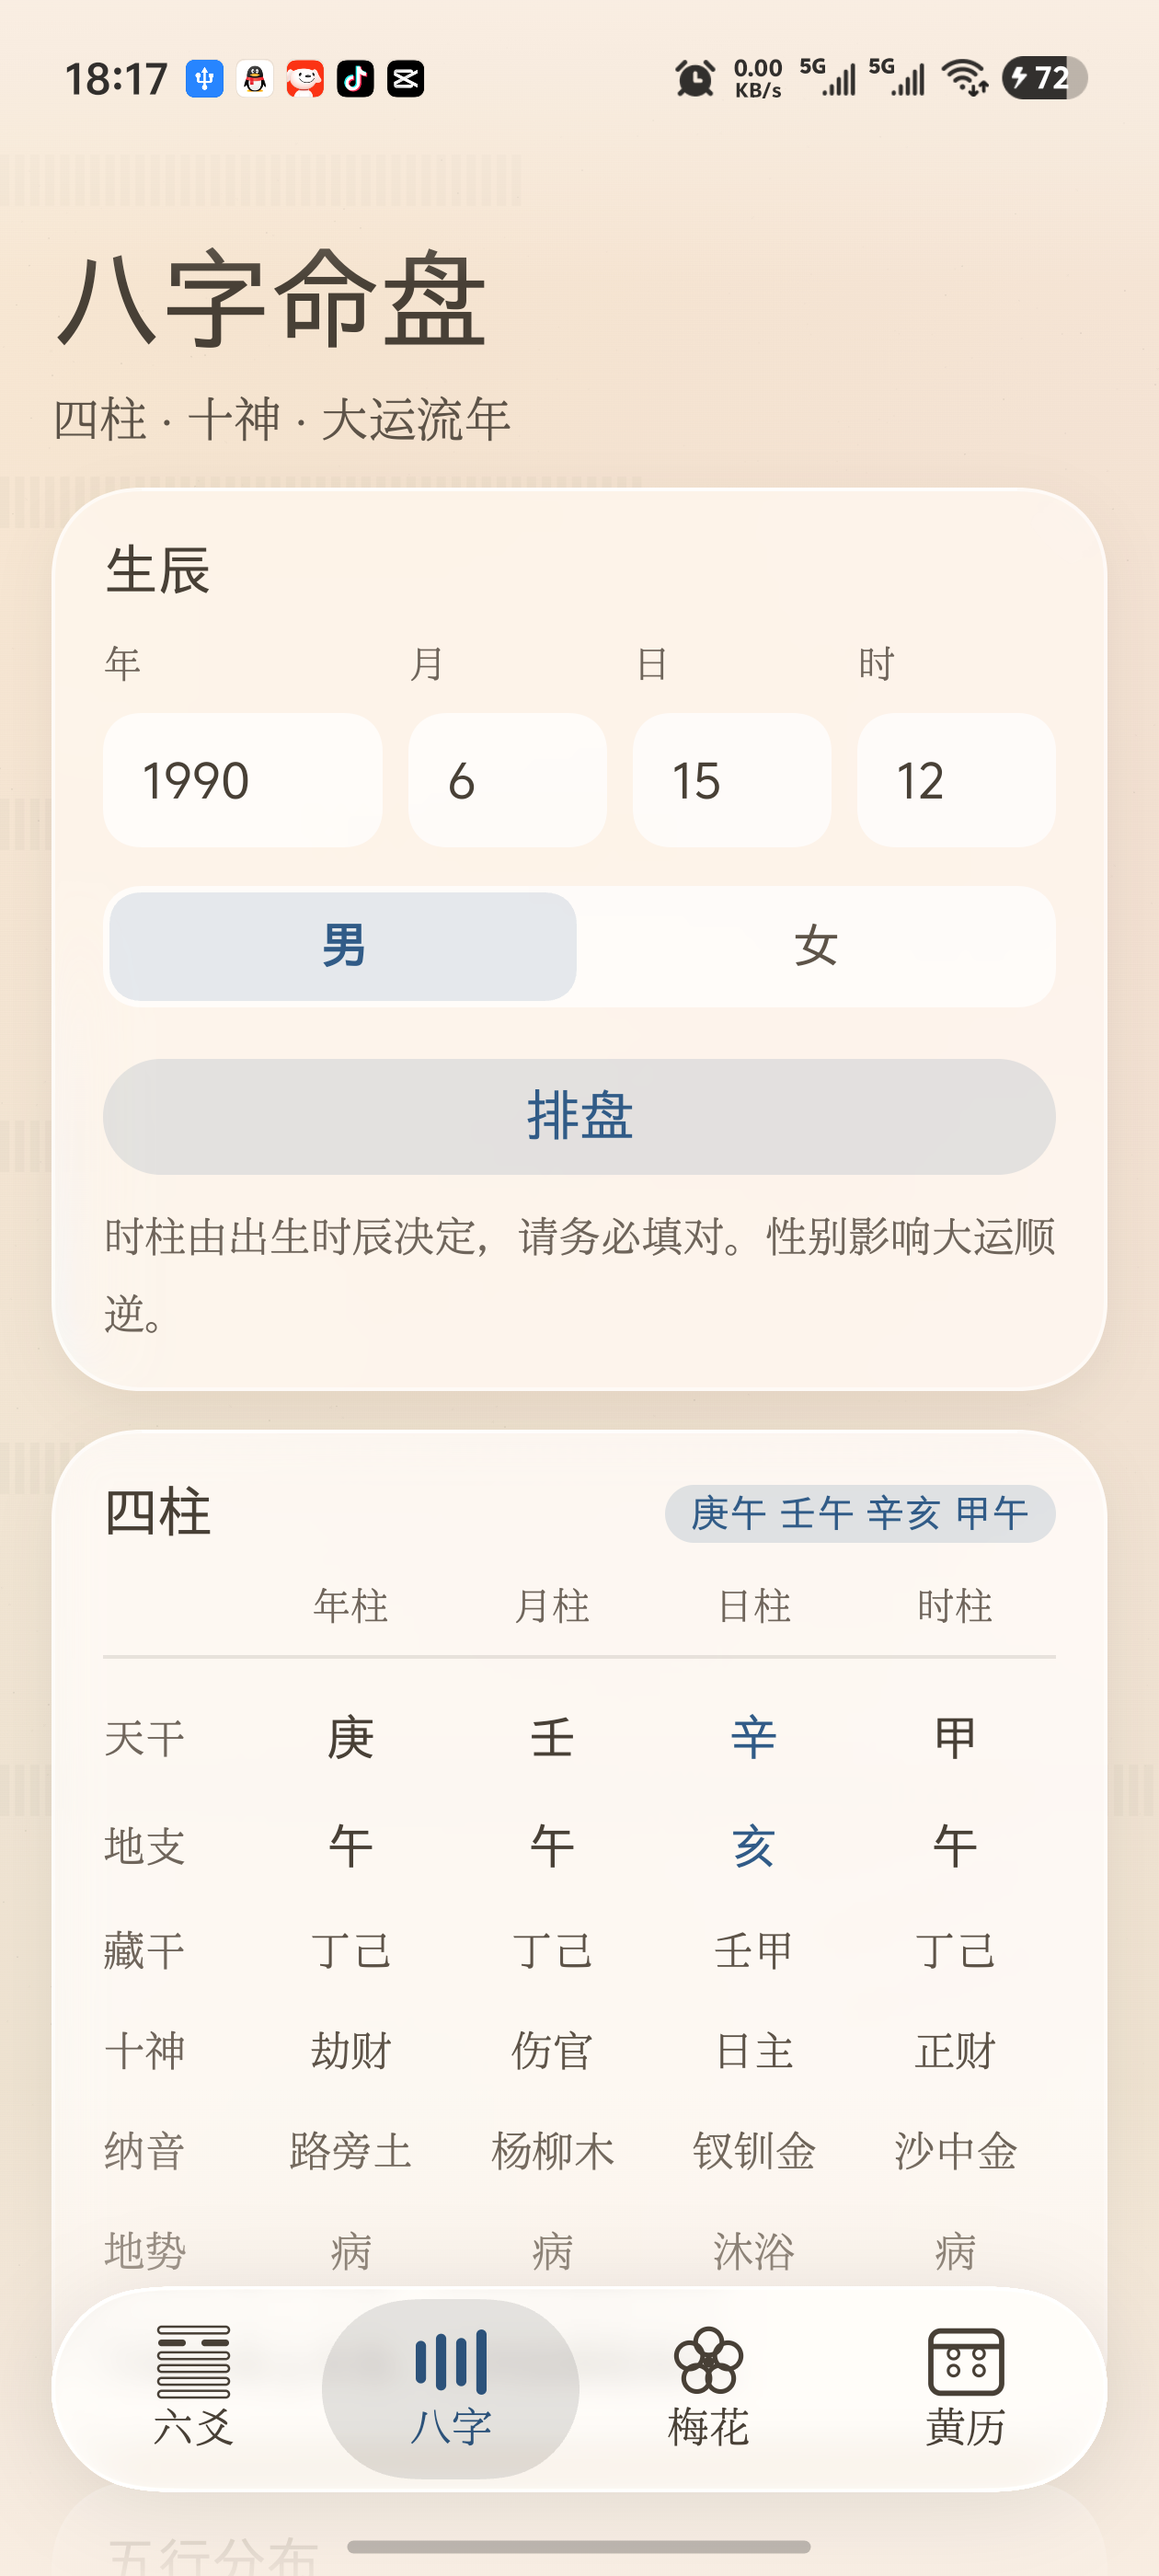
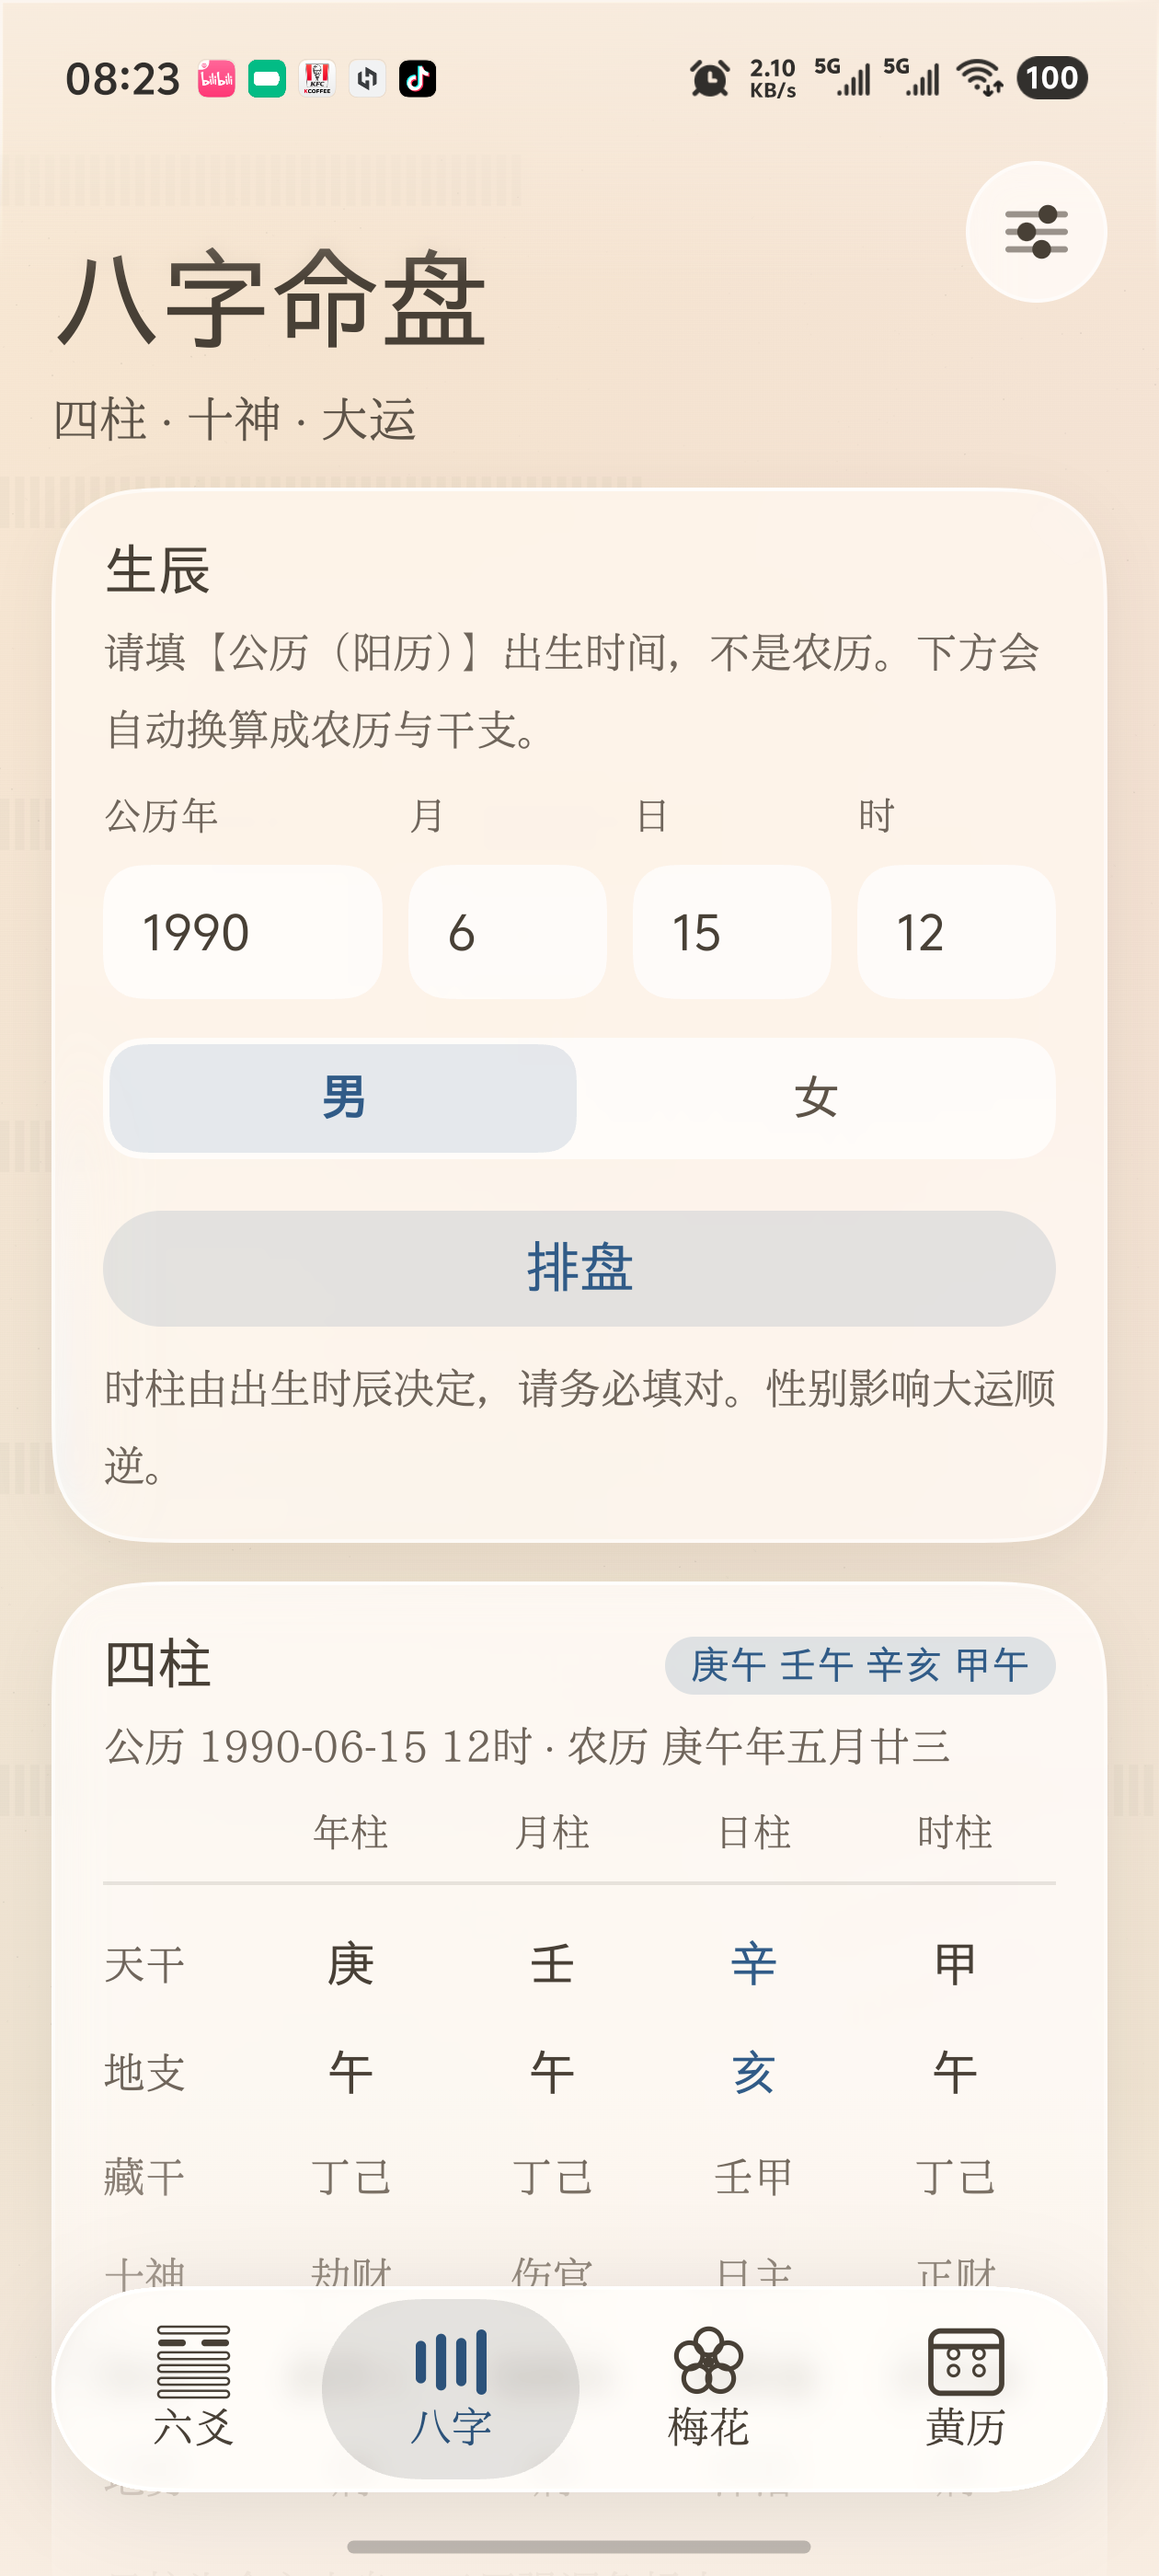
fix(ui): 按用户反馈提升可读性 + 修正八字两处事实错误
用户反馈：UI 不够易读；八字写了「大运流年」但只有大运；八字没标农历还是公历。

一、八字两处事实错误（必须修）
1. 副标题「四柱 · 十神 · 大运流年」→「四柱 · 十神 · 大运」
   —— 页面上根本没有流年，写出来就是虚假承诺
2. 输入口径未标明。经核实 BaZiService.chart 用的是 Solar.fromYmdHms，即**公历**，
   但界面只写「年/月/日/时」，用户极可能误填农历，导致整盘皆错。
   修复：卡片内加说明「请填【公历（阳历）】出生时间，不是农历」，
   输入框标签改为「公历年」，并在排盘结果回显
   「公历 1990-06-15 12时 · 农历 庚午年五月廿三」让用户能立刻自检

二、卦盘可读性（对照热卜六爻的排版）
1. **六亲列补上五行**：原来只显示「父母」，现在显示「父母土」。
   断卦看的就是用神受生受克，光看六亲名不显五行，用户得在脑子里换算 —— 这是最大的可读性缺口
2. **字号整体上调**：六亲/六神 footnote(13) → subheadline(15)；
   纳甲与爻下小字 caption(11) → footnote(13)；行高同步从 20/18/16 调到 22/22/20
3. **六神提高对比度**：原来 tertiaryText 几乎糊在背景里，改 secondaryText，
   动爻所在爻的六神用 accent 强调
4. **变卦六亲同样补五行**（父母火/兄弟土）

真机验证（vivo，零崩溃）：
- 卦盘：六亲五行、字号、六神对比度均正常
- 八字：副标题已改；输入区公历说明与「公历年」标签可见；
  排盘结果回显「公历 1990-06-15 12时 · 农历 庚午年五月廿三」

diff --git a/feature/liuyao/src/main/java/com/maohongyuan/magic/feature/liuyao/LiuyaoScreen.kt b/feature/liuyao/src/main/java/com/maohongyuan/magic/feature/liuyao/LiuyaoScreen.kt
@@ -499,9 +499,9 @@ private object YaoCols {
 }
 
 // 单元格固定三槽：没有内容也占位，保证六行爻线落在同一组水平线上
-private val YaoLineSlot = 20.dp
-private val YaoTextSlot = 18.dp
-private val YaoSubSlot = 16.dp
+private val YaoLineSlot = 22.dp
+private val YaoTextSlot = 22.dp
+private val YaoSubSlot = 20.dp
 
 @Composable
 private fun YaoTableRow(line: LiuYaoLine) {
@@ -514,13 +514,14 @@ private fun YaoTableRow(line: LiuYaoLine) {
     ) {
         Text(
             text = line.liuShen.label,
-            fontSize = MagicType.footnote.sp,
-            color = colors.tertiaryText,
+            fontSize = MagicType.subheadline.sp,
+            color = if (line.moving) colors.accent else colors.secondaryText,
             modifier = Modifier.weight(YaoCols.SHEN),
         )
         Text(
-            text = line.liuQin.label,
-            fontSize = MagicType.footnote.sp,
+            // 六亲 + 五行：断卦看的就是用神受生受克，五行必须直接摆在眼前
+            text = line.liuQin.label + line.naJia.wuXing.label,
+            fontSize = MagicType.subheadline.sp,
             fontWeight = FontWeight.Medium,
             color = if (line.kong) colors.tertiaryText else colors.secondaryText,
             modifier = Modifier.weight(YaoCols.QIN),
@@ -548,7 +549,7 @@ private fun YaoTableRow(line: LiuYaoLine) {
             yang = line.bian?.let { !line.yang } ?: line.yang,
             ganZhi = line.bian?.naJia?.label ?: "—",
             tint = colors.secondaryText,
-            sub = line.bian?.liuQin?.label,
+            sub = line.bian?.let { it.liuQin.label + it.naJia.wuXing.label },
             subColor = colors.tertiaryText,
             modifier = Modifier.weight(YaoCols.BIAN),
         )
@@ -573,11 +574,16 @@ private fun YaoCell(
             )
         }
         Box(modifier = Modifier.height(YaoTextSlot)) {
-            Text(text = ganZhi, fontSize = MagicType.caption.sp, fontWeight = FontWeight.Medium, color = tint)
+            Text(
+                text = ganZhi,
+                fontSize = MagicType.footnote.sp,
+                fontWeight = FontWeight.Medium,
+                color = tint,
+            )
         }
         Box(modifier = Modifier.height(YaoSubSlot)) {
             if (sub != null) {
-                Text(text = sub, fontSize = MagicType.caption.sp, color = subColor)
+                Text(text = sub, fontSize = MagicType.footnote.sp, color = subColor)
             }
         }
     }

diff --git a/feature/bazi/src/main/java/com/maohongyuan/magic/feature/bazi/BaziScreen.kt b/feature/bazi/src/main/java/com/maohongyuan/magic/feature/bazi/BaziScreen.kt
@@ -111,14 +111,17 @@ fun BaziScreen(scrollState: ScrollState) {
     }
 
     MagicPageContent(scrollState = scrollState) {
-        MagicPageHeader(title = "八字命盘", subtitle = "四柱 · 十神 · 大运流年")
+        MagicPageHeader(title = "八字命盘", subtitle = "四柱 · 十神 · 大运")
 
         // ── 生辰 ──
         GlassCard {
             MagicSectionTitle("生辰")
+            Spacer(Modifier.height(MagicSpacing.xs))
+            // 输入口径必须写明 —— 公历/农历填错会整盘皆错，这是最容易踩的坑
+            MagicCaption("请填【公历（阳历）】出生时间，不是农历。下方会自动换算成农历与干支。")
             Spacer(Modifier.height(MagicSpacing.md))
             Row(horizontalArrangement = Arrangement.spacedBy(MagicSpacing.row)) {
-                FieldBox("年", year, { year = it }, Modifier.weight(1.4f))
+                FieldBox("公历年", year, { year = it }, Modifier.weight(1.4f))
                 FieldBox("月", month, { month = it }, Modifier.weight(1f))
                 FieldBox("日", day, { day = it }, Modifier.weight(1f))
                 FieldBox("时", hour, { hour = it }, Modifier.weight(1f))
@@ -152,6 +155,13 @@ fun BaziScreen(scrollState: ScrollState) {
                     MagicSectionTitle("四柱", modifier = Modifier.weight(1f))
                     MagicBadge(c.eightCharLabel, colors.accent)
                 }
+                Spacer(Modifier.height(MagicSpacing.xs))
+                // 回显换算结果：用户一眼就能确认公历填得对不对
+                MagicCaption(
+                    "公历 ${c.solar.ymd} ${c.solar.hour}时 · " +
+                        "农历 ${c.lunar.yearGanZhi}年${c.lunar.monthLabel}${c.lunar.dayLabel}" +
+                        if (c.lunar.isLeapMonth) "（闰月）" else ""
+                )
                 Spacer(Modifier.height(MagicSpacing.md))
 
                 Row(modifier = Modifier.fillMaxWidth()) {
